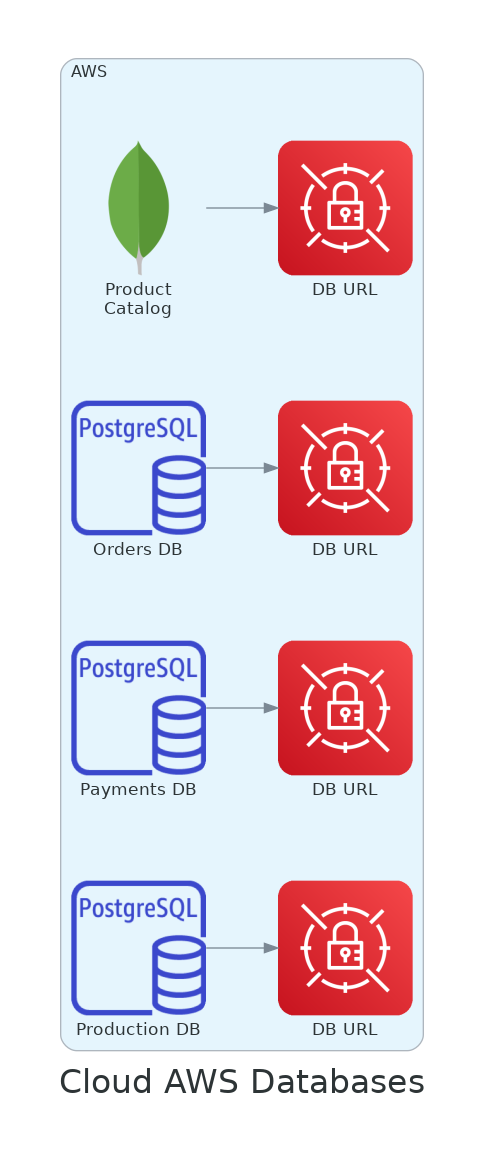
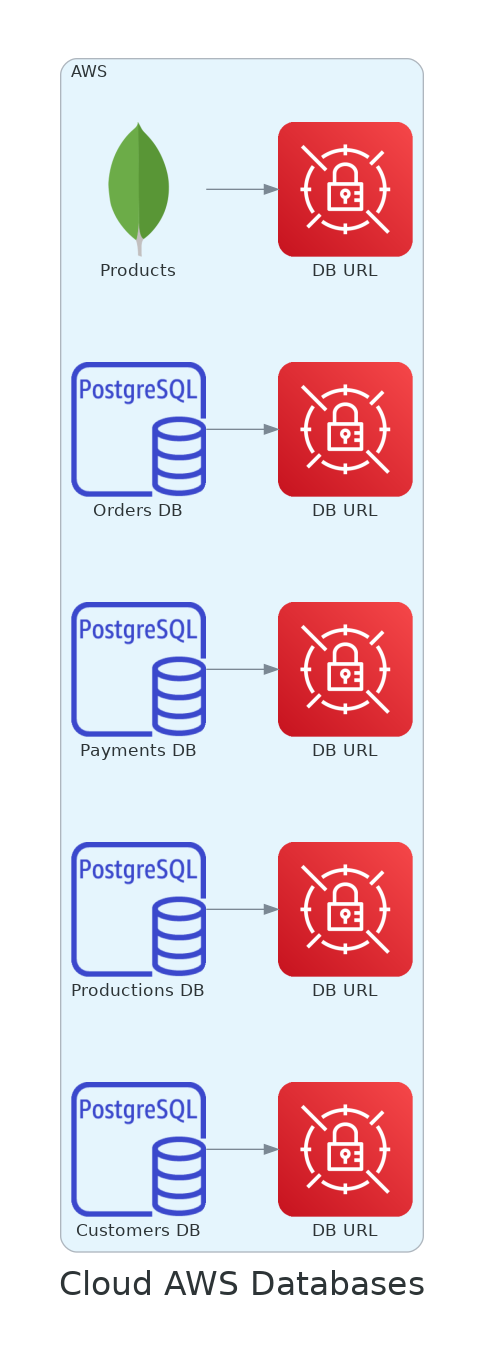
add customers db

Changed region(s): [[0.124, 0.0311, 0.8988, 0.9646], [0.5269, 0.809, 0.5579, 0.8712]]

diff --git a/docs/cloud_aws_databases.py b/docs/cloud_aws_databases.py
@@ -39,15 +39,18 @@ item_attr = {
 
 with Diagram("Cloud AWS Databases", show=False, graph_attr=diagram_attr):    
     with Cluster("AWS"):        
-        product_catalog_db = Mongodb("Product\nCatalog")
-        product_catalog_db >> SecretsManager("DB URL")
+        products_db = Mongodb("Products")
+        products_db >> SecretsManager("DB URL")
 
-        order_db = RDS("Orders DB")
-        order_db >> SecretsManager("DB URL")
+        orders_db = RDS("Orders DB")
+        orders_db >> SecretsManager("DB URL")
 
-        payment_db = RDS("Payments DB")
-        payment_db >> SecretsManager("DB URL")
+        payments_db = RDS("Payments DB")
+        payments_db >> SecretsManager("DB URL")
 
-        production_db = RDS("Production DB")
-        production_db >> SecretsManager("DB URL")
+        productions_db = RDS("Productions DB")
+        productions_db >> SecretsManager("DB URL")
+
+        customers_db = RDS("Customers DB")
+        customers_db >> SecretsManager("DB URL")
 

diff --git a/docs/database_nosql.md b/docs/database_nosql.md
@@ -8,7 +8,6 @@ No requirements.
 | Name | Version |
 |------|---------|
 | <a name="provider_aws"></a> [aws](#provider\_aws) | n/a |
-| <a name="provider_random"></a> [random](#provider\_random) | n/a |
 ## Inputs
 
 | Name | Description | Type | Default | Required |
@@ -31,12 +30,7 @@ No modules.
 | [aws_docdb_cluster.db](https://registry.terraform.io/providers/hashicorp/aws/latest/docs/resources/docdb_cluster) | resource |
 | [aws_docdb_cluster_instance.db_instance](https://registry.terraform.io/providers/hashicorp/aws/latest/docs/resources/docdb_cluster_instance) | resource |
 | [aws_docdb_cluster_parameter_group.parameter_group](https://registry.terraform.io/providers/hashicorp/aws/latest/docs/resources/docdb_cluster_parameter_group) | resource |
-| [aws_iam_policy.db_secret_policy](https://registry.terraform.io/providers/hashicorp/aws/latest/docs/resources/iam_policy) | resource |
-| [aws_iam_role_policy_attachment.db_secret_policy_attachment](https://registry.terraform.io/providers/hashicorp/aws/latest/docs/resources/iam_role_policy_attachment) | resource |
-| [aws_secretsmanager_secret.master_user_secret](https://registry.terraform.io/providers/hashicorp/aws/latest/docs/resources/secretsmanager_secret) | resource |
-| [aws_secretsmanager_secret_version.master_user_secret_version](https://registry.terraform.io/providers/hashicorp/aws/latest/docs/resources/secretsmanager_secret_version) | resource |
 | [aws_security_group.db_security_group](https://registry.terraform.io/providers/hashicorp/aws/latest/docs/resources/security_group) | resource |
-| [random_password.password](https://registry.terraform.io/providers/hashicorp/random/latest/docs/resources/password) | resource |
 | [aws_subnets.private_subnets](https://registry.terraform.io/providers/hashicorp/aws/latest/docs/data-sources/subnets) | data source |
 | [aws_vpc.vpc](https://registry.terraform.io/providers/hashicorp/aws/latest/docs/data-sources/vpc) | data source |
 ## Outputs

diff --git a/docs/database_sql.md b/docs/database_sql.md
@@ -8,7 +8,6 @@ No requirements.
 | Name | Version |
 |------|---------|
 | <a name="provider_aws"></a> [aws](#provider\_aws) | n/a |
-| <a name="provider_random"></a> [random](#provider\_random) | n/a |
 ## Inputs
 
 | Name | Description | Type | Default | Required |
@@ -31,12 +30,7 @@ No modules.
 | [aws_db_instance.db](https://registry.terraform.io/providers/hashicorp/aws/latest/docs/resources/db_instance) | resource |
 | [aws_db_parameter_group.db_parameter_group](https://registry.terraform.io/providers/hashicorp/aws/latest/docs/resources/db_parameter_group) | resource |
 | [aws_db_subnet_group.db_subnet_group](https://registry.terraform.io/providers/hashicorp/aws/latest/docs/resources/db_subnet_group) | resource |
-| [aws_iam_policy.db_secret_policy](https://registry.terraform.io/providers/hashicorp/aws/latest/docs/resources/iam_policy) | resource |
-| [aws_iam_role_policy_attachment.db_secret_policy_attachment](https://registry.terraform.io/providers/hashicorp/aws/latest/docs/resources/iam_role_policy_attachment) | resource |
-| [aws_secretsmanager_secret.master_user_secret](https://registry.terraform.io/providers/hashicorp/aws/latest/docs/resources/secretsmanager_secret) | resource |
-| [aws_secretsmanager_secret_version.master_user_secret_version](https://registry.terraform.io/providers/hashicorp/aws/latest/docs/resources/secretsmanager_secret_version) | resource |
 | [aws_security_group.db_security_group](https://registry.terraform.io/providers/hashicorp/aws/latest/docs/resources/security_group) | resource |
-| [random_password.password](https://registry.terraform.io/providers/hashicorp/random/latest/docs/resources/password) | resource |
 | [aws_subnets.private_subnets](https://registry.terraform.io/providers/hashicorp/aws/latest/docs/data-sources/subnets) | data source |
 | [aws_vpc.vpc](https://registry.terraform.io/providers/hashicorp/aws/latest/docs/data-sources/vpc) | data source |
 ## Outputs

diff --git a/README.md b/README.md
@@ -64,6 +64,7 @@ No providers.
 
 | Name | Source | Version |
 |------|--------|---------|
+| <a name="module_customers_db"></a> [customers\_db](#module\_customers\_db) | ./modules/database_sql | n/a |
 | <a name="module_orders_db"></a> [orders\_db](#module\_orders\_db) | ./modules/database_sql | n/a |
 | <a name="module_payments_db"></a> [payments\_db](#module\_payments\_db) | ./modules/database_sql | n/a |
 | <a name="module_productions_db"></a> [productions\_db](#module\_productions\_db) | ./modules/database_sql | n/a |
